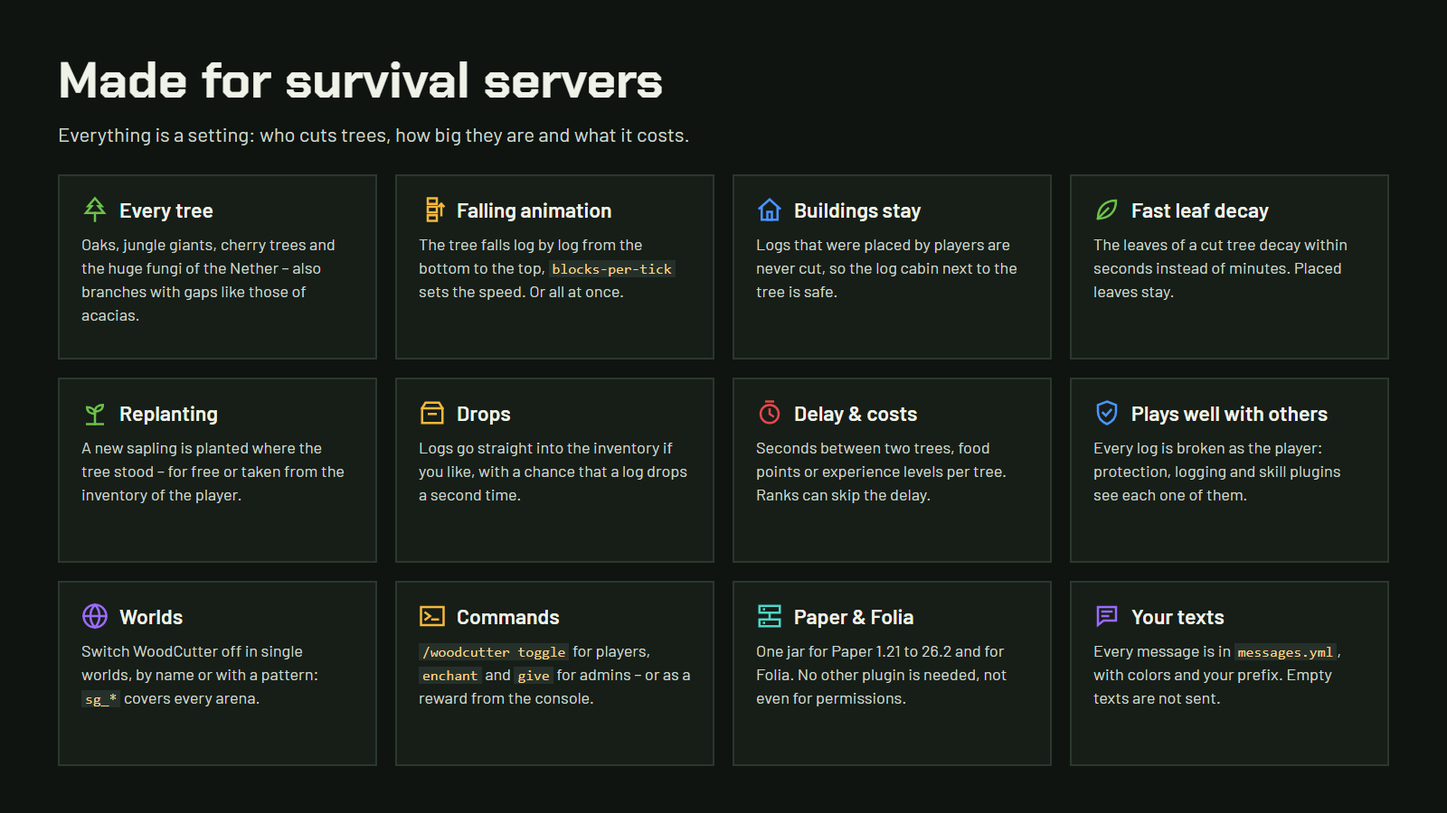
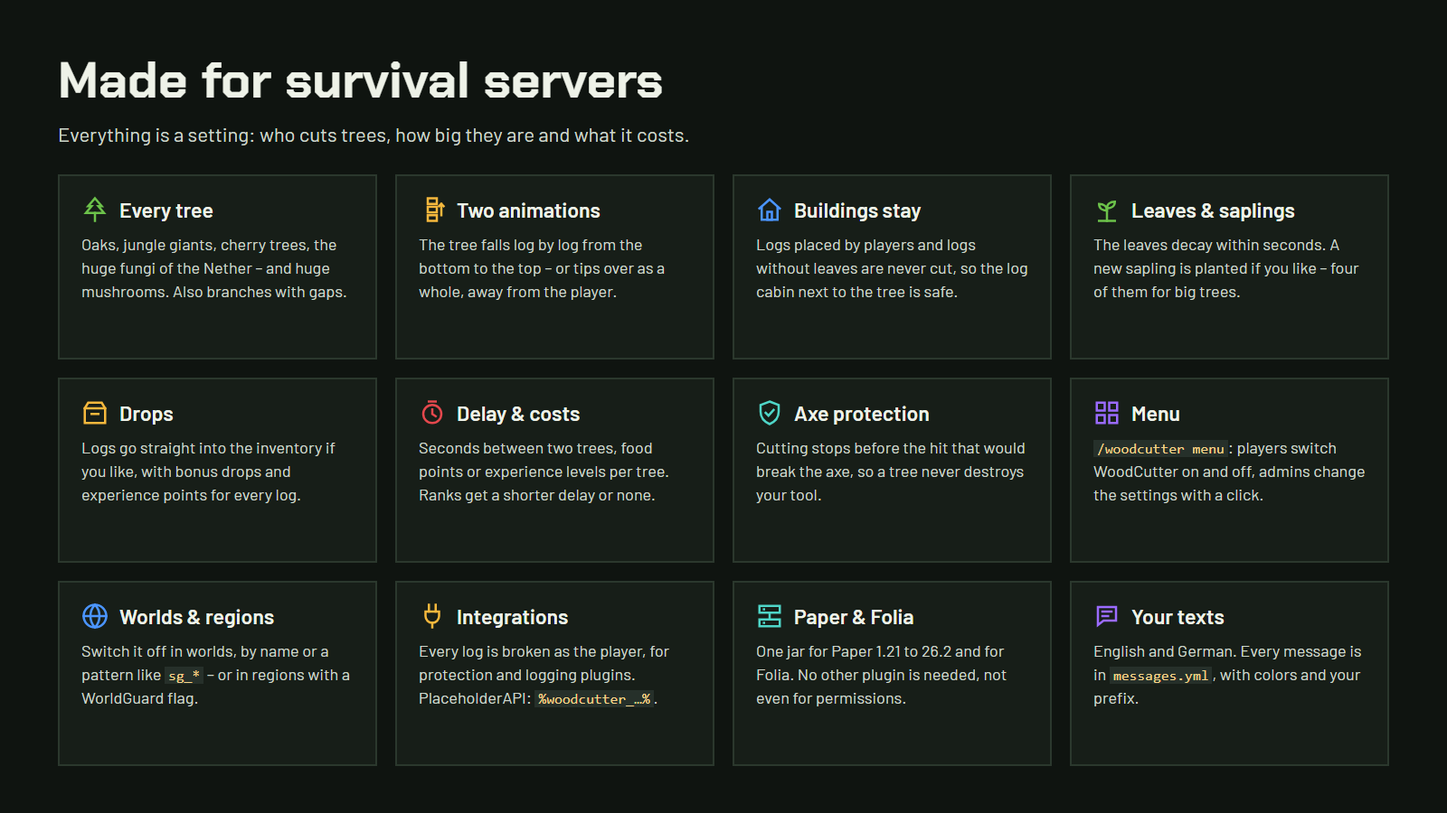
Update branding for 3.1.0, add skill image

diff --git a/branding/design/Skill.dc.html b/branding/design/Skill.dc.html
@@ -1,0 +1,136 @@
+<!doctype html>
+<html lang="en">
+<head>
+<meta charset="utf-8">
+<title>WoodCutter skill</title>
+<script src="./support.js"></script>
+</head>
+<body>
+<x-dc>
+<helmet>
+<link rel="preconnect" href="https://fonts.googleapis.com">
+<link href="https://fonts.googleapis.com/css2?family=Chakra+Petch:wght@600;700&amp;family=Barlow:wght@400;600&amp;family=Pixelify+Sans:wght@400;600&amp;display=swap" rel="stylesheet">
+<style>
+body{margin:0}
+code{font-family: Consolas, monospace; font-size: 16px; color: #F5D38A; background: #26302A; padding: 0 4px}
+</style>
+</helmet>
+<div style="width: 1600px; height: 900px; box-sizing: border-box; padding: 52px 64px; background: #0F1410; font-family: 'Barlow', sans-serif; color: #EEF2E8; display: flex; flex-direction: column; gap: 32px">
+<div style="display: flex; flex-direction: column; gap: 10px">
+<h2 style="margin: 0; font-family: 'Chakra Petch', sans-serif; font-weight: 700; font-size: 56px">Cut trees, gain levels</h2>
+<p style="margin: 0; font-size: 22px; color: #CDD6CB">The woodcutting skill: 50 levels with perks that grow with every level.</p>
+</div>
+<div style="display: grid; grid-template-columns: repeat(2, minmax(0, 1fr)); gap: 24px; flex-grow: 1">
+
+<div style="background: #171E18; border: 2px solid #2B382D; border-top: 6px solid #F5B83D; padding: 28px 32px; display: flex; flex-direction: column; gap: 20px">
+<div style="display: flex; justify-content: space-between; align-items: baseline">
+<h3 style="margin: 0; font-family: 'Chakra Petch', sans-serif; font-weight: 700; font-size: 34px; color: #F5B83D">LEVEL UP</h3>
+<span style="font-size: 18px; font-weight: 600; color: #9DA89C">experience for every log of a tree</span>
+</div>
+
+<div style="display: flex; flex-direction: column; gap: 10px">
+<div style="font-family: 'Pixelify Sans', sans-serif; background: #0B0F0C; border: 2px solid #2B382D; padding: 14px 20px; font-size: 27px; text-align: center"><span style="color: #55FF55">+14 XP</span><span style="color: #555555"> | </span><span style="color: #AAAAAA">Level </span><span style="color: #7C8CFF">12</span><span style="color: #555555"> | </span><span style="color: #FFFFFF">180</span><span style="color: #AAAAAA">/</span><span style="color: #FFFFFF">350</span></div>
+<div style="display: flex; gap: 3px"><div style="flex: 1; height: 12px; background: #7FDB3A"></div><div style="flex: 1; height: 12px; background: #7FDB3A"></div><div style="flex: 1; height: 12px; background: #7FDB3A"></div><div style="flex: 1; height: 12px; background: #7FDB3A"></div><div style="flex: 1; height: 12px; background: #7FDB3A"></div><div style="flex: 1; height: 12px; background: #7FDB3A"></div><div style="flex: 1; height: 12px; background: #7FDB3A"></div><div style="flex: 1; height: 12px; background: #7FDB3A"></div><div style="flex: 1; height: 12px; background: #7FDB3A"></div><div style="flex: 1; height: 12px; background: #26302A"></div><div style="flex: 1; height: 12px; background: #26302A"></div><div style="flex: 1; height: 12px; background: #26302A"></div><div style="flex: 1; height: 12px; background: #26302A"></div><div style="flex: 1; height: 12px; background: #26302A"></div><div style="flex: 1; height: 12px; background: #26302A"></div><div style="flex: 1; height: 12px; background: #26302A"></div><div style="flex: 1; height: 12px; background: #26302A"></div><div style="flex: 1; height: 12px; background: #26302A"></div></div>
+<div style="font-size: 18px; line-height: 1.45; color: #CDD6CB">Shown over the action bar after every tree. A new level is announced with a title.</div>
+</div>
+
+<div style="font-family: 'Pixelify Sans', sans-serif; background: #0B0F0C; border: 2px solid #2B382D; padding: 16px 22px; font-size: 24px; line-height: 1.5">
+<div style="color: #AAAAAA; margin-bottom: 4px">The best woodcutters:</div>
+<div><span style="color: #AAAAAA">1. </span><span style="color: #7C8CFF">Alex</span><span style="color: #555555"> | </span><span style="color: #AAAAAA">Level </span><span style="color: #7C8CFF">31</span><span style="color: #555555"> | </span><span style="color: #FFFFFF">13402 XP</span></div>
+<div><span style="color: #AAAAAA">2. </span><span style="color: #7C8CFF">Steve</span><span style="color: #555555"> | </span><span style="color: #AAAAAA">Level </span><span style="color: #7C8CFF">24</span><span style="color: #555555"> | </span><span style="color: #FFFFFF">8215 XP</span></div>
+<div><span style="color: #AAAAAA">3. </span><span style="color: #7C8CFF">Kai</span><span style="color: #555555"> | </span><span style="color: #AAAAAA">Level </span><span style="color: #7C8CFF">12</span><span style="color: #555555"> | </span><span style="color: #FFFFFF">2430 XP</span></div>
+<div><span style="color: #AAAAAA">4. </span><span style="color: #7C8CFF">Mira</span><span style="color: #555555"> | </span><span style="color: #AAAAAA">Level </span><span style="color: #7C8CFF">9</span><span style="color: #555555"> | </span><span style="color: #FFFFFF">1391 XP</span></div>
+<div><span style="color: #AAAAAA">5. </span><span style="color: #7C8CFF">Jonas</span><span style="color: #555555"> | </span><span style="color: #AAAAAA">Level </span><span style="color: #7C8CFF">5</span><span style="color: #555555"> | </span><span style="color: #FFFFFF">562 XP</span></div>
+</div>
+
+<div style="display: grid; grid-template-columns: repeat(2, minmax(0, 1fr)); gap: 12px 28px; margin-top: auto">
+<div>
+<div style="font-size: 23px; font-weight: 600"><svg style="vertical-align: -3px; margin-right: 6px" width="22" height="22" viewBox="0 0 24 24" fill="none" stroke="#F5B83D" stroke-width="2.4" stroke-linecap="square" stroke-linejoin="miter"><rect x="2" y="4" width="20" height="16"></rect><polyline points="6 9 10 12 6 15"></polyline><line x1="12" y1="15" x2="17" y2="15"></line></svg>Commands</div>
+<div style="font-size: 18px; line-height: 1.45; color: #CDD6CB"><code>/woodcutter level</code> shows the perks, <code>/woodcutter top</code> the best players.</div>
+</div>
+<div>
+<div style="font-size: 23px; font-weight: 600"><svg style="vertical-align: -3px; margin-right: 6px" width="22" height="22" viewBox="0 0 24 24" fill="none" stroke="#4B95FF" stroke-width="2.4" stroke-linecap="square" stroke-linejoin="miter"><rect x="3" y="12" width="4" height="9"></rect><rect x="10" y="3" width="4" height="18"></rect><rect x="17" y="8" width="4" height="13"></rect></svg>Placeholders</div>
+<div style="font-size: 18px; line-height: 1.45; color: #CDD6CB">Level, experience and the ranking for scoreboards and holograms.</div>
+</div>
+</div>
+</div>
+
+<div style="background: #171E18; border: 2px solid #2B382D; border-top: 6px solid #6CC24A; padding: 28px 32px; display: flex; flex-direction: column; gap: 26px">
+<div style="display: flex; justify-content: space-between; align-items: baseline">
+<h3 style="margin: 0; font-family: 'Chakra Petch', sans-serif; font-weight: 700; font-size: 34px; color: #6CC24A">PERKS</h3>
+<span style="font-size: 18px; font-weight: 600; color: #9DA89C">at level 50 · every value is a setting</span>
+</div>
+
+<div style="display: grid; grid-template-columns: repeat(2, minmax(0, 1fr)); gap: 26px 36px">
+<div>
+<div style="display: flex; justify-content: space-between; align-items: baseline; gap: 8px">
+<div style="font-size: 23px; font-weight: 600"><svg style="vertical-align: -3px; margin-right: 6px" width="22" height="22" viewBox="0 0 24 24" fill="none" stroke="#F5B83D" stroke-width="2.4" stroke-linecap="square" stroke-linejoin="miter"><polygon points="13 2 4 14 11 14 10 22 20 9 13 9"></polygon></svg>Faster cutting</div>
+<div style="font-family: 'Chakra Petch', sans-serif; font-weight: 700; font-size: 20px; color: #F5B83D; white-space: nowrap">+4</div>
+</div>
+<div style="font-size: 18px; line-height: 1.45; color: #CDD6CB">More logs per tick of the falling animation.</div>
+</div>
+<div>
+<div style="display: flex; justify-content: space-between; align-items: baseline; gap: 8px">
+<div style="font-size: 23px; font-weight: 600"><svg style="vertical-align: -3px; margin-right: 6px" width="22" height="22" viewBox="0 0 24 24" fill="none" stroke="#E5484D" stroke-width="2.4" stroke-linecap="square" stroke-linejoin="miter"><circle cx="12" cy="13" r="8"></circle><polyline points="12 9 12 13 15 15"></polyline><line x1="9" y1="2" x2="15" y2="2"></line></svg>Shorter delay</div>
+<div style="font-family: 'Chakra Petch', sans-serif; font-weight: 700; font-size: 20px; color: #E5484D; white-space: nowrap">−20 s</div>
+</div>
+<div style="font-size: 18px; line-height: 1.45; color: #CDD6CB">Less waiting between two trees.</div>
+</div>
+<div>
+<div style="display: flex; justify-content: space-between; align-items: baseline; gap: 8px">
+<div style="font-size: 23px; font-weight: 600"><svg style="vertical-align: -3px; margin-right: 6px" width="22" height="22" viewBox="0 0 24 24" fill="none" stroke="#6CC24A" stroke-width="2.4" stroke-linecap="square" stroke-linejoin="miter"><path d="M12 2l6 7h-3l5 6H4l5-6H6z"></path><line x1="12" y1="15" x2="12" y2="22"></line></svg>Bigger trees</div>
+<div style="font-family: 'Chakra Petch', sans-serif; font-weight: 700; font-size: 20px; color: #6CC24A; white-space: nowrap">+120 logs</div>
+</div>
+<div style="font-size: 18px; line-height: 1.45; color: #CDD6CB">On top of the limit of the enchantment.</div>
+</div>
+<div>
+<div style="display: flex; justify-content: space-between; align-items: baseline; gap: 8px">
+<div style="font-size: 23px; font-weight: 600"><svg style="vertical-align: -3px; margin-right: 6px" width="22" height="22" viewBox="0 0 24 24" fill="none" stroke="#F5B83D" stroke-width="2.4" stroke-linecap="square" stroke-linejoin="miter"><rect x="3" y="8" width="18" height="13"></rect><path d="M3 8l3-5h12l3 5"></path><line x1="9" y1="13" x2="15" y2="13"></line></svg>Bonus drops</div>
+<div style="font-family: 'Chakra Petch', sans-serif; font-weight: 700; font-size: 20px; color: #F5B83D; white-space: nowrap">+20 %</div>
+</div>
+<div style="font-size: 18px; line-height: 1.45; color: #CDD6CB">A higher chance that a log drops a second time.</div>
+</div>
+<div>
+<div style="display: flex; justify-content: space-between; align-items: baseline; gap: 8px">
+<div style="font-size: 23px; font-weight: 600"><svg style="vertical-align: -3px; margin-right: 6px" width="22" height="22" viewBox="0 0 24 24" fill="none" stroke="#4FD6C8" stroke-width="2.4" stroke-linecap="square" stroke-linejoin="miter"><path d="M12 2l8 3v6c0 5-3.5 9-8 11-4.5-2-8-6-8-11V5z"></path></svg>Careful with the axe</div>
+<div style="font-family: 'Chakra Petch', sans-serif; font-weight: 700; font-size: 20px; color: #4FD6C8; white-space: nowrap">30 %</div>
+</div>
+<div style="font-size: 18px; line-height: 1.45; color: #CDD6CB">Of the logs of a tree do not damage the axe.</div>
+</div>
+<div>
+<div style="display: flex; justify-content: space-between; align-items: baseline; gap: 8px">
+<div style="font-size: 23px; font-weight: 600"><svg style="vertical-align: -3px; margin-right: 6px" width="22" height="22" viewBox="0 0 24 24" fill="none" stroke="#4B95FF" stroke-width="2.4" stroke-linecap="square" stroke-linejoin="miter"><circle cx="12" cy="12" r="9"></circle><line x1="8" y1="12" x2="16" y2="12"></line></svg>Lower costs</div>
+<div style="font-family: 'Chakra Petch', sans-serif; font-weight: 700; font-size: 20px; color: #4B95FF; white-space: nowrap">−50 %</div>
+</div>
+<div style="font-size: 18px; line-height: 1.45; color: #CDD6CB">Less hunger and experience for a tree.</div>
+</div>
+<div>
+<div style="display: flex; justify-content: space-between; align-items: baseline; gap: 8px">
+<div style="font-size: 23px; font-weight: 600"><svg style="vertical-align: -3px; margin-right: 6px" width="22" height="22" viewBox="0 0 24 24" fill="none" stroke="#6CC24A" stroke-width="2.4" stroke-linecap="square" stroke-linejoin="miter"><path d="M4 20C4 10 10 4 20 4c0 10-6 16-16 16z"></path><line x1="4" y1="20" x2="13" y2="11"></line></svg>Forester's luck</div>
+<div style="font-family: 'Chakra Petch', sans-serif; font-weight: 700; font-size: 20px; color: #6CC24A; white-space: nowrap">3 %</div>
+</div>
+<div style="font-size: 18px; line-height: 1.45; color: #CDD6CB">Of the decaying leaves drop a stick, a sapling or an apple.</div>
+</div>
+<div>
+<div style="display: flex; justify-content: space-between; align-items: baseline; gap: 8px">
+<div style="font-size: 23px; font-weight: 600"><svg style="vertical-align: -3px; margin-right: 6px" width="22" height="22" viewBox="0 0 24 24" fill="none" stroke="#9B6BFF" stroke-width="2.4" stroke-linecap="square" stroke-linejoin="miter"><rect x="5" y="11" width="14" height="10"></rect><path d="M8 11V7a4 4 0 0 1 8 0"></path></svg>Unlocks</div>
+<div style="font-family: 'Chakra Petch', sans-serif; font-weight: 700; font-size: 20px; color: #9B6BFF; white-space: nowrap">10 · 20</div>
+</div>
+<div style="font-size: 18px; line-height: 1.45; color: #CDD6CB">Free saplings from level 10, logs into the inventory from level 20.</div>
+</div>
+</div>
+<div style="margin-top: auto; padding: 14px 18px; border: 2px dashed #2B382D; font-size: 18px; line-height: 1.45; color: #CDD6CB">The perks grow evenly with every level. <code>skill.enabled: false</code> switches the skill off, e.g. next to another skill plugin.</div>
+</div>
+
+</div>
+</div>
+</x-dc>
+<script type="text/x-dc" data-dc-script data-props='{"$preview":{"width":1600,"height":900}}'>
+class Component extends DCLogic {
+renderVals() {
+return {};
+}
+}
+</script>
+</body>
+</html>

diff --git a/branding/design/Features.dc.html b/branding/design/Features.dc.html
@@ -27,15 +27,15 @@ code{font-family: Consolas, monospace; font-size: 16px; color: #F5D38A; backgrou
 <svg width="30" height="30" viewBox="0 0 24 24" fill="none" stroke="#6CC24A" stroke-width="2" stroke-linecap="square" stroke-linejoin="miter"><path d="M12 2l6 7h-3l5 6H4l5-6H6z"></path><line x1="12" y1="15" x2="12" y2="22"></line></svg>
 <h3 style="margin: 0; font-size: 23px; font-weight: 600">Every tree</h3>
 </div>
-<p style="margin: 0; font-size: 18px; line-height: 1.45; color: #CDD6CB">Oaks, jungle giants, cherry trees and the huge fungi of the Nether – also branches with gaps like those of acacias.</p>
+<p style="margin: 0; font-size: 18px; line-height: 1.45; color: #CDD6CB">Oaks, jungle giants, cherry trees, the huge fungi of the Nether – and huge mushrooms. Also branches with gaps.</p>
 </div>
 
 <div style="background: #171E18; border: 2px solid #2B382D; padding: 22px 24px; display: flex; flex-direction: column; gap: 10px">
 <div style="display: flex; gap: 12px; align-items: center">
-<svg width="30" height="30" viewBox="0 0 24 24" fill="none" stroke="#F5B83D" stroke-width="2" stroke-linecap="square" stroke-linejoin="miter"><rect x="8" y="2" width="8" height="5"></rect><rect x="8" y="9.5" width="8" height="5"></rect><rect x="8" y="17" width="8" height="5"></rect><polyline points="19 9 21 7 23 9" transform="translate(-1 0)"></polyline><line x1="20" y1="7" x2="20" y2="17"></line></svg>
-<h3 style="margin: 0; font-size: 23px; font-weight: 600">Falling animation</h3>
+<svg width="30" height="30" viewBox="0 0 24 24" fill="none" stroke="#F5B83D" stroke-width="2" stroke-linecap="square" stroke-linejoin="miter"><rect x="8" y="2" width="8" height="5"></rect><rect x="8" y="9.5" width="8" height="5"></rect><rect x="8" y="17" width="8" height="5"></rect><polyline points="18 9 20 7 22 9"></polyline><line x1="20" y1="7" x2="20" y2="17"></line></svg>
+<h3 style="margin: 0; font-size: 23px; font-weight: 600">Two animations</h3>
 </div>
-<p style="margin: 0; font-size: 18px; line-height: 1.45; color: #CDD6CB">The tree falls log by log from the bottom to the top, <code>blocks-per-tick</code> sets the speed. Or all at once.</p>
+<p style="margin: 0; font-size: 18px; line-height: 1.45; color: #CDD6CB">The tree falls log by log from the bottom to the top – or tips over as a whole, away from the player.</p>
 </div>
 
 <div style="background: #171E18; border: 2px solid #2B382D; padding: 22px 24px; display: flex; flex-direction: column; gap: 10px">
@@ -43,23 +43,15 @@ code{font-family: Consolas, monospace; font-size: 16px; color: #F5D38A; backgrou
 <svg width="30" height="30" viewBox="0 0 24 24" fill="none" stroke="#4B95FF" stroke-width="2" stroke-linecap="square" stroke-linejoin="miter"><path d="M3 11l9-8 9 8"></path><path d="M5 10v11h14V10"></path><rect x="10" y="14" width="4" height="7"></rect></svg>
 <h3 style="margin: 0; font-size: 23px; font-weight: 600">Buildings stay</h3>
 </div>
-<p style="margin: 0; font-size: 18px; line-height: 1.45; color: #CDD6CB">Logs that were placed by players are never cut, so the log cabin next to the tree is safe.</p>
-</div>
-
-<div style="background: #171E18; border: 2px solid #2B382D; padding: 22px 24px; display: flex; flex-direction: column; gap: 10px">
-<div style="display: flex; gap: 12px; align-items: center">
-<svg width="30" height="30" viewBox="0 0 24 24" fill="none" stroke="#6CC24A" stroke-width="2" stroke-linecap="square" stroke-linejoin="miter"><path d="M4 20C4 10 10 4 20 4c0 10-6 16-16 16z"></path><line x1="4" y1="20" x2="13" y2="11"></line></svg>
-<h3 style="margin: 0; font-size: 23px; font-weight: 600">Fast leaf decay</h3>
-</div>
-<p style="margin: 0; font-size: 18px; line-height: 1.45; color: #CDD6CB">The leaves of a cut tree decay within seconds instead of minutes. Placed leaves stay.</p>
+<p style="margin: 0; font-size: 18px; line-height: 1.45; color: #CDD6CB">Logs placed by players and logs without leaves are never cut, so the log cabin next to the tree is safe.</p>
 </div>
 
 <div style="background: #171E18; border: 2px solid #2B382D; padding: 22px 24px; display: flex; flex-direction: column; gap: 10px">
 <div style="display: flex; gap: 12px; align-items: center">
 <svg width="30" height="30" viewBox="0 0 24 24" fill="none" stroke="#6CC24A" stroke-width="2" stroke-linecap="square" stroke-linejoin="miter"><path d="M12 22V11"></path><path d="M12 13c0-4-3-6-7-6 0 4 3 6 7 6zM12 11c0-4 3-6 7-6 0 4-3 6-7 6z"></path><line x1="5" y1="22" x2="19" y2="22"></line></svg>
-<h3 style="margin: 0; font-size: 23px; font-weight: 600">Replanting</h3>
+<h3 style="margin: 0; font-size: 23px; font-weight: 600">Leaves &amp; saplings</h3>
 </div>
-<p style="margin: 0; font-size: 18px; line-height: 1.45; color: #CDD6CB">A new sapling is planted where the tree stood – for free or taken from the inventory of the player.</p>
+<p style="margin: 0; font-size: 18px; line-height: 1.45; color: #CDD6CB">The leaves decay within seconds. A new sapling is planted if you like – four of them for big trees.</p>
 </div>
 
 <div style="background: #171E18; border: 2px solid #2B382D; padding: 22px 24px; display: flex; flex-direction: column; gap: 10px">
@@ -67,7 +59,7 @@ code{font-family: Consolas, monospace; font-size: 16px; color: #F5D38A; backgrou
 <svg width="30" height="30" viewBox="0 0 24 24" fill="none" stroke="#F5B83D" stroke-width="2" stroke-linecap="square" stroke-linejoin="miter"><rect x="3" y="8" width="18" height="13"></rect><path d="M3 8l3-5h12l3 5"></path><line x1="9" y1="13" x2="15" y2="13"></line></svg>
 <h3 style="margin: 0; font-size: 23px; font-weight: 600">Drops</h3>
 </div>
-<p style="margin: 0; font-size: 18px; line-height: 1.45; color: #CDD6CB">Logs go straight into the inventory if you like, with a chance that a log drops a second time.</p>
+<p style="margin: 0; font-size: 18px; line-height: 1.45; color: #CDD6CB">Logs go straight into the inventory if you like, with bonus drops and experience points for every log.</p>
 </div>
 
 <div style="background: #171E18; border: 2px solid #2B382D; padding: 22px 24px; display: flex; flex-direction: column; gap: 10px">
@@ -75,31 +67,39 @@ code{font-family: Consolas, monospace; font-size: 16px; color: #F5D38A; backgrou
 <svg width="30" height="30" viewBox="0 0 24 24" fill="none" stroke="#E5484D" stroke-width="2" stroke-linecap="square" stroke-linejoin="miter"><circle cx="12" cy="13" r="8"></circle><polyline points="12 9 12 13 15 15"></polyline><line x1="9" y1="2" x2="15" y2="2"></line></svg>
 <h3 style="margin: 0; font-size: 23px; font-weight: 600">Delay &amp; costs</h3>
 </div>
-<p style="margin: 0; font-size: 18px; line-height: 1.45; color: #CDD6CB">Seconds between two trees, food points or experience levels per tree. Ranks can skip the delay.</p>
+<p style="margin: 0; font-size: 18px; line-height: 1.45; color: #CDD6CB">Seconds between two trees, food points or experience levels per tree. Ranks get a shorter delay or none.</p>
 </div>
 
 <div style="background: #171E18; border: 2px solid #2B382D; padding: 22px 24px; display: flex; flex-direction: column; gap: 10px">
 <div style="display: flex; gap: 12px; align-items: center">
-<svg width="30" height="30" viewBox="0 0 24 24" fill="none" stroke="#4B95FF" stroke-width="2" stroke-linecap="square" stroke-linejoin="miter"><path d="M12 2l8 3v6c0 5-3.5 9-8 11-4.5-2-8-6-8-11V5z"></path><polyline points="8.5 12 11 14.5 15.5 9.5"></polyline></svg>
-<h3 style="margin: 0; font-size: 23px; font-weight: 600">Plays well with others</h3>
+<svg width="30" height="30" viewBox="0 0 24 24" fill="none" stroke="#4FD6C8" stroke-width="2" stroke-linecap="square" stroke-linejoin="miter"><path d="M12 2l8 3v6c0 5-3.5 9-8 11-4.5-2-8-6-8-11V5z"></path><polyline points="8.5 12 11 14.5 15.5 9.5"></polyline></svg>
+<h3 style="margin: 0; font-size: 23px; font-weight: 600">Axe protection</h3>
 </div>
-<p style="margin: 0; font-size: 18px; line-height: 1.45; color: #CDD6CB">Every log is broken as the player: protection, logging and skill plugins see each one of them.</p>
-</div>
-
-<div style="background: #171E18; border: 2px solid #2B382D; padding: 22px 24px; display: flex; flex-direction: column; gap: 10px">
-<div style="display: flex; gap: 12px; align-items: center">
-<svg width="30" height="30" viewBox="0 0 24 24" fill="none" stroke="#9B6BFF" stroke-width="2" stroke-linecap="square" stroke-linejoin="miter"><circle cx="12" cy="12" r="10"></circle><path d="M2 12h20M12 2c3 3 4 6.5 4 10s-1 7-4 10c-3-3-4-6.5-4-10s1-7 4-10z"></path></svg>
-<h3 style="margin: 0; font-size: 23px; font-weight: 600">Worlds</h3>
-</div>
-<p style="margin: 0; font-size: 18px; line-height: 1.45; color: #CDD6CB">Switch WoodCutter off in single worlds, by name or with a pattern: <code>sg_*</code> covers every arena.</p>
+<p style="margin: 0; font-size: 18px; line-height: 1.45; color: #CDD6CB">Cutting stops before the hit that would break the axe, so a tree never destroys your tool.</p>
 </div>
 
 <div style="background: #171E18; border: 2px solid #2B382D; padding: 22px 24px; display: flex; flex-direction: column; gap: 10px">
 <div style="display: flex; gap: 12px; align-items: center">
-<svg width="30" height="30" viewBox="0 0 24 24" fill="none" stroke="#F5B83D" stroke-width="2" stroke-linecap="square" stroke-linejoin="miter"><rect x="2" y="4" width="20" height="16"></rect><polyline points="6 9 10 12 6 15"></polyline><line x1="12" y1="15" x2="17" y2="15"></line></svg>
-<h3 style="margin: 0; font-size: 23px; font-weight: 600">Commands</h3>
+<svg width="30" height="30" viewBox="0 0 24 24" fill="none" stroke="#9B6BFF" stroke-width="2" stroke-linecap="square" stroke-linejoin="miter"><rect x="3" y="3" width="7" height="7"></rect><rect x="14" y="3" width="7" height="7"></rect><rect x="3" y="14" width="7" height="7"></rect><rect x="14" y="14" width="7" height="7"></rect></svg>
+<h3 style="margin: 0; font-size: 23px; font-weight: 600">Menu</h3>
 </div>
-<p style="margin: 0; font-size: 18px; line-height: 1.45; color: #CDD6CB"><code>/woodcutter toggle</code> for players, <code>enchant</code> and <code>give</code> for admins – or as a reward from the console.</p>
+<p style="margin: 0; font-size: 18px; line-height: 1.45; color: #CDD6CB"><code>/woodcutter menu</code>: players switch WoodCutter on and off, admins change the settings with a click.</p>
+</div>
+
+<div style="background: #171E18; border: 2px solid #2B382D; padding: 22px 24px; display: flex; flex-direction: column; gap: 10px">
+<div style="display: flex; gap: 12px; align-items: center">
+<svg width="30" height="30" viewBox="0 0 24 24" fill="none" stroke="#4B95FF" stroke-width="2" stroke-linecap="square" stroke-linejoin="miter"><circle cx="12" cy="12" r="10"></circle><path d="M2 12h20M12 2c3 3 4 6.5 4 10s-1 7-4 10c-3-3-4-6.5-4-10s1-7 4-10z"></path></svg>
+<h3 style="margin: 0; font-size: 23px; font-weight: 600">Worlds &amp; regions</h3>
+</div>
+<p style="margin: 0; font-size: 18px; line-height: 1.45; color: #CDD6CB">Switch it off in worlds, by name or a pattern like <code>sg_*</code> – or in regions with a WorldGuard flag.</p>
+</div>
+
+<div style="background: #171E18; border: 2px solid #2B382D; padding: 22px 24px; display: flex; flex-direction: column; gap: 10px">
+<div style="display: flex; gap: 12px; align-items: center">
+<svg width="30" height="30" viewBox="0 0 24 24" fill="none" stroke="#F5B83D" stroke-width="2" stroke-linecap="square" stroke-linejoin="miter"><path d="M9 2v6M15 2v6"></path><path d="M6 8h12v4a6 6 0 0 1-12 0z"></path><line x1="12" y1="18" x2="12" y2="22"></line></svg>
+<h3 style="margin: 0; font-size: 23px; font-weight: 600">Integrations</h3>
+</div>
+<p style="margin: 0; font-size: 18px; line-height: 1.45; color: #CDD6CB">Every log is broken as the player, for protection and logging plugins. PlaceholderAPI: <code>%woodcutter_…%</code>.</p>
 </div>
 
 <div style="background: #171E18; border: 2px solid #2B382D; padding: 22px 24px; display: flex; flex-direction: column; gap: 10px">
@@ -115,7 +115,7 @@ code{font-family: Consolas, monospace; font-size: 16px; color: #F5D38A; backgrou
 <svg width="30" height="30" viewBox="0 0 24 24" fill="none" stroke="#9B6BFF" stroke-width="2" stroke-linecap="square" stroke-linejoin="miter"><path d="M4 4h16v12H9l-5 4z"></path><line x1="8" y1="8" x2="16" y2="8"></line><line x1="8" y1="12" x2="13" y2="12"></line></svg>
 <h3 style="margin: 0; font-size: 23px; font-weight: 600">Your texts</h3>
 </div>
-<p style="margin: 0; font-size: 18px; line-height: 1.45; color: #CDD6CB">Every message is in <code>messages.yml</code>, with colors and your prefix. Empty texts are not sent.</p>
+<p style="margin: 0; font-size: 18px; line-height: 1.45; color: #CDD6CB">English and German. Every message is in <code>messages.yml</code>, with colors and your prefix.</p>
 </div>
 
 </div>

diff --git a/branding/design/HowItWorks.dc.html b/branding/design/HowItWorks.dc.html
@@ -18,7 +18,7 @@ code{font-family: Consolas, monospace; font-size: 16px; color: #F5D38A; backgrou
 <div style="width: 1600px; height: 900px; box-sizing: border-box; padding: 52px 64px; background: #0F1410; font-family: 'Barlow', sans-serif; color: #EEF2E8; display: flex; flex-direction: column; gap: 32px">
 <div style="display: flex; flex-direction: column; gap: 10px">
 <h2 style="margin: 0; font-family: 'Chakra Petch', sans-serif; font-weight: 700; font-size: 56px">One log, whole tree</h2>
-<p style="margin: 0; font-size: 22px; color: #CDD6CB">WoodCutter is an enchantment for axes – from the enchanting table, an anvil or a command.</p>
+<p style="margin: 0; font-size: 22px; color: #CDD6CB">WoodCutter is an enchantment for axes – from the enchanting table, villagers, loot chests or a command.</p>
 </div>
 <div style="display: grid; grid-template-columns: repeat(2, minmax(0, 1fr)); gap: 24px; flex-grow: 1">
 
@@ -36,7 +36,7 @@ code{font-family: Consolas, monospace; font-size: 16px; color: #F5D38A; backgrou
 </div>
 <div style="padding-bottom: 30px">
 <div style="font-size: 23px; font-weight: 600">Get the enchantment</div>
-<div style="font-size: 18px; line-height: 1.45; color: #CDD6CB">Enchant an axe or a book for 30 levels: with a chance of 40&nbsp;% it gets WoodCutter as well.</div>
+<div style="font-size: 18px; line-height: 1.45; color: #CDD6CB">Enchant an axe or a book for 30 levels (40&nbsp;% chance) – or get a book from a librarian, a wandering trader or a loot chest.</div>
 </div>
 </div>
 
@@ -57,8 +57,8 @@ code{font-family: Consolas, monospace; font-size: 16px; color: #F5D38A; backgrou
 <div style="width: 4px; flex-grow: 1; background: #334136"></div>
 </div>
 <div style="padding-bottom: 30px">
-<div style="font-size: 23px; font-weight: 600">The tree falls log by log</div>
-<div style="font-size: 18px; line-height: 1.45; color: #CDD6CB">From the bottom to the top, as if you had broken every log yourself: the axe takes damage, the logs drop.</div>
+<div style="font-size: 23px; font-weight: 600">The tree falls</div>
+<div style="font-size: 18px; line-height: 1.45; color: #CDD6CB">Log by log from the bottom to the top – or it tips over as a whole. The axe takes damage, the logs drop.</div>
 </div>
 </div>
 
@@ -73,7 +73,7 @@ code{font-family: Consolas, monospace; font-size: 16px; color: #F5D38A; backgrou
 </div>
 
 </div>
-<div style="margin-top: auto; padding: 14px 18px; border: 2px dashed #2B382D; font-size: 18px; line-height: 1.45; color: #CDD6CB">Only the logs above the broken one fall – break the lowest log to cut the whole tree.</div>
+<div style="margin-top: auto; padding: 14px 18px; border: 2px dashed #2B382D; font-size: 18px; line-height: 1.45; color: #CDD6CB">Only the logs above the broken one fall. Logs without leaves are no tree – buildings are safe.</div>
 </div>
 
 <div style="background: #171E18; border: 2px solid #2B382D; border-top: 6px solid #9B6BFF; padding: 28px 32px; display: flex; flex-direction: column; gap: 16px">

diff --git a/branding/design/Main.dc.html b/branding/design/Main.dc.html
@@ -27,7 +27,7 @@ body{margin:0}
 <div style="padding: 8px 14px; border: 2px solid #2B382D; font-size: 16px; font-weight: 600">Paper 1.21 – 26.2</div>
 <div style="padding: 8px 14px; border: 2px solid #2B382D; font-size: 16px; font-weight: 600">Folia</div>
 <div style="padding: 8px 14px; border: 2px solid #2B382D; font-size: 16px; font-weight: 600">Three levels</div>
-<div style="padding: 8px 14px; border: 2px solid #2B382D; font-size: 16px; font-weight: 600">No dependencies</div>
+<div style="padding: 8px 14px; border: 2px solid #2B382D; font-size: 16px; font-weight: 600">Woodcutting skill</div>
 </div>
 </div>
 

diff --git a/branding/README.md b/branding/README.md
@@ -8,12 +8,13 @@ Images for the plugin pages on SpigotMC, Modrinth and Hangar.
 | `banner.png` | 1600×500 | Header at the top of the description |
 | `how-it-works.png` | 1600×900 | Gallery / description: the steps of cutting a tree + the levels of the enchantment |
 | `features.png` | 1600×900 | Gallery / description: feature overview |
+| `skill.png` | 1600×900 | Gallery / description: the woodcutting skill (experience, ranking, perks) |
 
 ## Editing
 
 The sources are in `design/` (one `.dc.html` per image, `canvas.json` holds the sizes). They are plain HTML with
 inline styles in the same format as CatchTheBeacon and SurvivalGames (fonts: Chakra Petch, Barlow and Pixelify Sans
-for the item tooltip from Google Fonts); the pixel art (axe, log, tree) is inline SVG.
+for the item tooltip and the chat texts from Google Fonts); the pixel art (axe, log, tree) is inline SVG.
 
 After a change, render the PNGs again (needs Chrome or Edge):
 
@@ -24,5 +25,5 @@ After a change, render the PNGs again (needs Chrome or Edge):
 Colors: background `#0F1410`, panels `#171E18`, borders `#2B382D`, leaf green `#6CC24A`, amber `#F5B83D`,
 enchantment violet `#9B6BFF`, diamond `#4FD6C8`, blue `#4B95FF`, red `#E5484D`.
 
-The numbers in the images are the defaults of `config.yml` (30 levels, 40 % chance, 120 / 180 / 240 logs) – change
+The numbers in the images are the defaults of `config.yml` (30 levels, 40 % chance, 120 / 180 / 240 logs, 50 skill levels and the values of the perks) – change
 them here as well if the defaults change.
